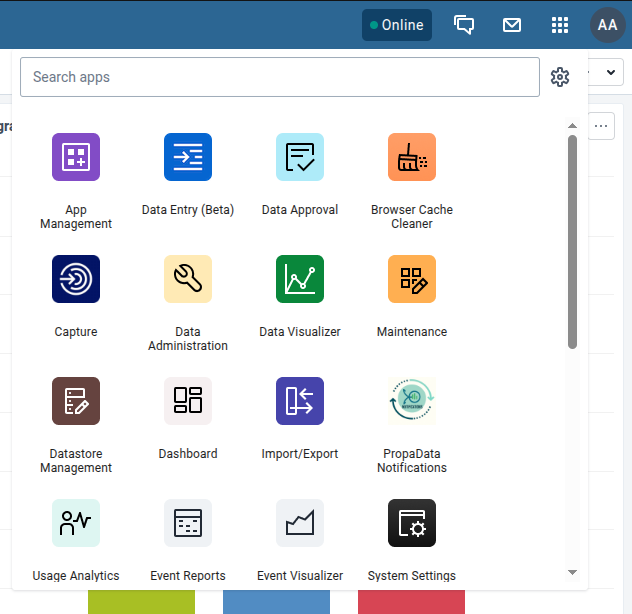
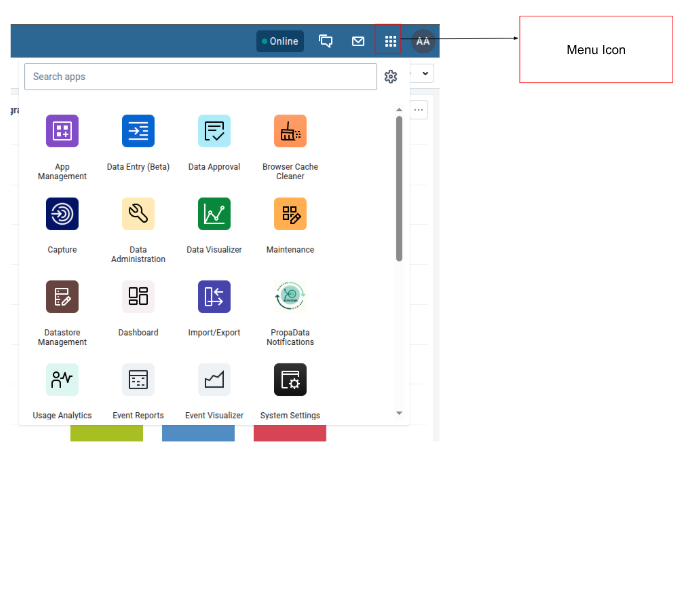
add; management guide

diff --git a/docs/management.md b/docs/management.md
@@ -1,8 +1,8 @@
 
 # What is Propa Data Management App
 
-The **Propa Data Management App** is a platform built on **DHIS2**, designed to help organizations collect, manage, and analyze data related to fish traders.  
-It provides tools for **data entry, validation, visualization, and reporting**, supporting both **individual trader-level records** and **aggregate data** at higher administrative levels.
+The **Propa Data Management App** is a platform built on **DHIS2**, designed to help organizations collect, manage, and analyze data related to participants.  
+It provides tools for **data entry, validation, visualization, and reporting**, supporting both **individual participant-level records** and **aggregate data** at higher administrative levels.
 
 ## Propa Data Management App
 
@@ -14,7 +14,7 @@ Access the platform here  [Propa Data Platform](https://fishtrader.exhaustivesol
 
 ### Dashboards
 
-Once logged in, you will see **custom dashboards** that summarize key indicators, trader activities, and survey results.  
+Once logged in, you will see **custom dashboards** that summarize key indicators, participant activities, and survey results.  
 These dashboards provide quick insights for monitoring and decision making.
 
 ![Dashboards](images/image41.png)
@@ -26,12 +26,79 @@ You can access these apps from the **App Menu** (grid icon at the top right corn
 
 Examples include:  
 - **Data Entry App**: For entering aggregate data.  
-- **Capture App**: For registering traders and recording events.  
+- **Capture App**: For registering Participants and recording events.  
+- **User Management App**: For user management and adding new  users.  
+- **Maintenance App**: For configuring metadata such as programs, data elements, indicators, and organisation units.  
 - **Event Reports & Data Visualizer**: For analyzing and visualizing data.  
 - **Dashboard App**: For quick access to key performance metrics.  
-- **PropaData Notifications App**: For creating and dispersing notifications.  
+- **PropaData Notifications App**: For creating and sending notifications to users.  
 
 ![App Highlights](images/image42.png)
+
+## User Management App
+
+The **User Management App** is where administrators manage access to the Propa Data platform.  
+From here, you can create users, assign roles, and group users for easier management.
+
+![User Management](images/image101.png)  
+
+### Adding a New User
+**1.** Open the **User Management App**.  
+**2.** Click on the **+Add** button.  
+**3.** Fill in the required fields such as: 
+
+* **Username**  
+* **Full Name**  
+* **Password**  
+
+- **E-mail / Phone number** 
+
+- **Expiration Date** - For short term platform users
+
+![Adding new user](images/image102.png)  
+
+**4.** Assign the user to an **Organisation Unit** 
+**5.** Assign **User Roles** based on responsibilities.  
+
+![Adding new user](images/image103.png)  
+
+**6.** Review the details and click **Create User**.  
+
+![Assign user roles](images/image104.png)  
+
+### Creating a User Role
+
+User Roles define what apps and functionalities a user can access.  
+
+**1.** In the **User Management App**, go to **User Roles**.  
+**2.** Click **Create Role**.  
+**3.** Enter:  
+   - **Role Name** (e.g., Enumerator Role).  
+   - **Description**.  
+
+   ![Creating user role](images/image105.png)  
+
+**4.** Assign **App Authorities**:  
+   - For enumerators, select **Capture App access only**.  
+   - For program officers, include **Data Visualizer, Event Reports, and Dashboards**. 
+
+   ![Assigning authorities](images/image106.png)  
+ 
+**5.** Save the role.  
+
+### Creating a User Group
+
+User Groups are useful for managing users collectively (Enumerators).  
+
+1. In the **User Management App**, go to **User Groups**.  
+2. Click **Create User Group**.  
+3. Enter a **Group Name** (Enumerators).  
+4. Search and add users to the group.  
+5. Save the group.  
+
+![Creating user group](images/image107.png)
+
+- This makes it easier to assign permissions, share dashboards, or send notifications to multiple users at once.  
 
 ## Maintenance App
 
@@ -44,7 +111,7 @@ Here you can define **data elements, attributes, indicators and option sets** th
 Data elements are the **basic units of information** collected in the system (e.g., *Trader Age*, *Training Completed*, *Business Type*).  
 They are the raw data fields used in forms, programs, and indicators.  
 
-- **Example:** *Traders with registered businesses*.  
+- **Example:** *participants with registered businesses*.  
 
 ![maintenance app](images/image50.png)
 
@@ -66,19 +133,19 @@ They turn raw data into **meaningful measures** for monitoring and reporting.
    - **Short Name** → used in charts/tables  
    - **Description** → purpose of the indicator  
 3. Build the **Formula**:  
-   - **Numerator** → Traders who completed training  
-   - **Denominator** → Total enrolled traders  
+   - **Numerator** → participants who completed training  
+   - **Denominator** → Total enrolled participants  
 4. (Optional) Add it to an **Indicator Group** for easy categorization.  
 5. Save and test it in the **Data Visualizer** app.  
 
-## Data Entry App
+## Data Entry App / Aggregate Reporting
 
 The **Data Entry app** in Propa Data is used to capture **aggregate information**.  
 Aggregate data refers to information collected at a **group level** (i.e, ward, sub-county, county) rather than for a single individual.  
 
 Typical aggregate entries in Propa Data include:
 
-- Number of **traders registered** in a given period.  
+- Number of **participants registered** in a given period.  
 - Number of **surveys completed** by in a certain ward.  
 - Counts of **activities** (trainings, market visits, outreach events).  
 
@@ -116,7 +183,7 @@ Propa Data uses a **hierarchical organisational structure**, so all data must be
   - Use **Save** if you’re still working on the form.  
   - Use **Complete** when all data is filled in correctly. Completed forms lock the period for that dataset.  
 
-## Capture App
+## Data Capture App / Longitudinal Reporting
 
 The **Capture app** in Propa Data is used to register **events** — activities or records that happen at a specific **time** and **place**.  
 Unlike routine aggregate data (collected at regular intervals), events are logged as they occur, and each event can carry detailed information.  
@@ -125,19 +192,19 @@ Unlike routine aggregate data (collected at regular intervals), events are logge
 
 - Events are tied to a **program**.  
 - In this case, Propa Data uses the **Fish Trader Program**.  
-- Traders are treated as **tracked entities**, meaning:  
-  - You can **search existing traders** using attributes such as **phone number, names or trader ID**.  
-  - You can also **register new traders** into the program if they don’t already exist.  
+- participants are treated as **tracked entities**, meaning:  
+  - You can **search existing participants** using attributes such as **phone number, names or trader ID**.  
+  - You can also **register new participants** into the program if they don’t already exist.  
 - Each event is linked to a **date** and **organisation unit** (e.g., your assigned ward).  
 
 ![Capture app](images/image44.png)
 
 ### Typical Uses of the Capture App
 
-- **Registering new traders** into the Fish Trader Program.  
+- **Registering new participants** into the Fish Trader Program.  
 - **Onboarding assessments** (e.g., digital skills survey).  
 - **Recording trader activities** such as training sessions, market attendance, or extension visits.  
-- **Longitudinal follow-up** of traders across multiple events (e.g., training → survey → progress checks).  
+- **Longitudinal follow-up** of participants across multiple events (e.g., training → survey → progress checks).  
 
 
 ## Data Visualizer
@@ -179,9 +246,107 @@ Follow these steps to create your own visualizations:
 
 
 ### Example Output
-Here is a **pie chart** showing **male vs. female traders** who have completed the **Digital Skills Assessment**.  
+Here is a **pie chart** showing **male vs. female participants** who have completed the **Digital Skills Assessment**.  
 
 ![Pie Chart Example](images/image48.png)
 
 You can also **download or share** your charts directly from the visualizer.  
+
+## PropaData Notifications
+
+The **PropaData Notifications App** allows you to create, schedule, and track notifications across different channels (SMS, Email, and In-App).
+
+![Propa Data Notifications](images/image108.png)
+
+### Notification Analytics
+
+The **Analytics Dashboard** provides an overview of all notifications sent. It displays:
+
+- **Total Notifications Sent**  
+- **Successful Deliveries**  
+- **Failed Deliveries**  
+- **Total Recipients**  
+
+![Notification Analytics](images/image-101.png)
+
+##### Individual Notification Analytics
+
+You can view detailed analytics for each notification by clicking the **eye icon**.
+
+![Individual Notification](images/image109.png)
+
+This displays key details such as:
+
+- Title  
+- Status  
+- Created By  
+- Type  
+- Message Body  
+- Scheduled Time / Sent Time  
+
+![Notification Details](images/image110.png)
+
+The analytics also show a **delivery breakdown** by channel (SMS, Email, In-App).
+
+![Delivery Breakdown](images/image111.png)
+
+### Creating Notifications
+
+To create a new notification, click **+ Schedule Notification** button.
+
+![Schedule Notification](images/image112.png)
+
+#### Step 1: Add Notification Details
+**Title** – Enter a descriptive title.  
+**Message** – Write your message. You can insert **dynamic templates** such as:  
+  - First Name  
+  - Full Name  
+  - Gender  
+  - Phone Number  
+
+![Notification Message](images/image113.png)
+
+#### Step 2: Define Notification Settings
+
+- **Type** – Select the notification type.  
+- **Delivery Mode** – Choose **Email, SMS, or In-App**.  
+- **Target Audience** – Define recipients.  
+- **Send Timing** – Send immediately (default: scheduled after 5 minutes) or schedule for a later date/time.  
+
+![Notification Settings](images/image114.png)
+
+For scheduled notifications, simply pick your preferred date and time.
+
+![Scheduled Notification](images/image115.png)
+
+Once created, the notification will appear in the list with the status **Scheduled** until it is sent.
+
+![Notification Status](images/image116.png)
+
+### Notification Audience
+The target audience for various notifications
+
+![Notification Audience](images/image117.png)
+
+#### Adding a New Audience
+
+When creating an audience, ensure recipients have valid **Email** or **Phone Numbers** (for SMS notifications).
+
+![Add Audience](images/image118.png)
+
+You can select participants directly and apply filters for easier participants filtering and add them to the audience.
+
+![Select Participants](images/image119.png)
+
+After confirming the details, click **Confirm Selection**.  
+
+A confirmation will appear if the audience is valid.
+
+![Audience Created](images/image120.png)
+
+
+✅ With these steps, you can manage notifications, monitor delivery performance, and ensure effective communication with participants.
+
+
+
 
